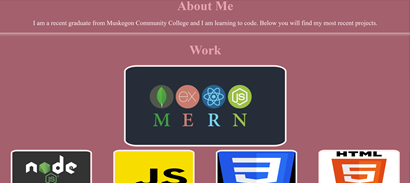
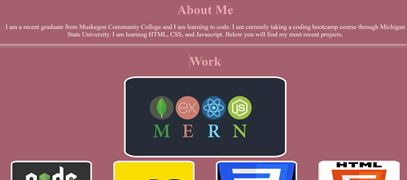
updates

diff --git a/index.html b/index.html
@@ -1,5 +1,6 @@
 <!DOCTYPE html>
 <html lang="en">
+<!--head of webpage-->
 <head>
     <meta charset="UTF-8">
     <title>Chelsea Krum Portolio</title>
@@ -7,14 +8,15 @@
     <link rel="stylesheet" href="./assets/css/style.css" />
 
 </head>
-
+<!--body of webpage-->
 <body>
+<!--header-->
     <header class="header">
         <h1>Chelsea Krum's <span class="portfolio">Portfolio</span></h1>
 
         <hr class="style">
-
-        <div>
+<!--Navigation bar-->
+        <nav>
             <ul>
                 <li>
                     <a href="#aboutMe">About</a>
@@ -25,81 +27,80 @@
                 <li>
                     <a href="#contact">Contact</a>
                 </li>
-        </ul>
-        </div>
+            </ul>
+        </nav>
     </header>     
-    <br>
 
+    <br>
+<!--Picture of me-->
     <img src="./assets/images/seniorpic.jpg" alt="Picture of me" class="profilePic"/>
     </article>
 
     <br>
-
+<!--About me section-->
     <article id="aboutMe" class="aboutMe">
         <h2>About Me</h2>
         <br>
-        <p>I am a recent graduate from Muskegon Community College and I am learning to code. Below you will find my most recent projects.</p>
+        <p>I am a recent graduate from Muskegon Community College and I am learning to code. I am currently taking a coding bootcamp course through Michigan State University. I am learning HTML, CSS, and Javascript. Below you will find my most recent projects.</p>
     </article>
     
     <br>
     <hr class="style">
     <br>
-
+<!--work section-->
     <article id="work" class="work">
         <h3>Work</h3>
         <br>
-        <div class="clearfix">
-            <div class="container"> <a href="https://github.com/ckrum21" target="_blank">
-                <div class="mern"> 
+<!--MERN section-->
+        <section class="clearfix">
+            <section class="container"> <a href="https://github.com/ckrum21" target="_blank">
+                <section class="mern"> 
                 <img src="./assets/images/MERN.jpg" alt="MERN logo">
-                </div>
-                <div class="middle">
-                    <div class="text">MERN Project</div>
-                </div>
+                </section>
+                <section class="middle">
+                    <section class="text">MERN Project</section>
+                </section>
             </a>
-            </div>
-
-
-            <div class="container1"> <a href="https://github.com/ckrum21" target="_blank">
+            </section>
+<!--Node section-->
+            <section class="container1"> <a href="https://github.com/ckrum21" target="_blank">
                 <img src="./assets/images/node.jpg" alt="Node Logo">
-                    <div class="middle">
-                        <div class="text">Node Project</div>
-                    </div>
+                    <section class="middle">
+                        <section class="text">Node Project</section>
+                    </section>
                 </a>
-            </div>
-
-            <div class="container1"><a href="https://github.com/ckrum21" target="_blank"> 
+            </section>
+<!--Javascript section-->
+            <section class="container1"><a href="https://github.com/ckrum21" target="_blank"> 
                 <img src="./assets/images/javascript.jpg" alt="Javascript logo">
-                    <div class="middle">
-                        <div class="text">Javascript Project</div>
-                    </div>
+                    <section class="middle">
+                        <section class="text">Javascript Project</section>
+                    </section>
                 </a>
-            </div>
-
-            <div class="container1" > <a href="https://github.com/ckrum21" target="_blank" > 
+            </section>
+<!--CSS section-->
+            <section class="container1" > <a href="https://github.com/ckrum21" target="_blank" > 
                 <img src="./assets/images/css.jpg" alt="CSS Logo">
-                    <div class="middle">
-                        <div class="text">CSS Project</div>
-                    </div>
+                    <section class="middle">
+                        <section class="text">CSS Project</section>
+                    </section>
                 </a>
-            </div>
-
-            <div class="container1" ><a href="https://github.com/ckrum21" target="_blank" >
+            </section>
+<!--HTML section-->
+            <section class="container1" ><a href="https://github.com/ckrum21" target="_blank" >
                 <img src="./assets/images/html.jpg" alt="HTML Logo">
-                    <div class="middle">
-                        <div class="text">HTML Project</div>
-                    </div>
+                    <section class="middle">
+                        <section class="text">HTML Project</section>
+                    </section>
                 </a>    
-          </div>
-        
-    </div>
-
+          </section>
+        </section>
     </article>
 
     <br>
     <hr class="style">
     <br>
-
+<!--Contact section-->
     <article id="contact" class="contact">
         <h4>Contact</h4>
         <br>
@@ -114,7 +115,7 @@
         </div>
     </article>
 
-
+<!--Footer of Webpage-->
 </body>
 <footer class="footer">
     <br>

diff --git a/assets/css/style.css b/assets/css/style.css
@@ -1,9 +1,10 @@
+/*root section*/
 :root {
     --dark:rgb(167, 98, 110);
     --light:rgb(231 ,163, 174);
     --lightest: rgb(255, 235, 235);
 }
-
+/*Univeral selector*/
 * {
     box-sizing: border-box;
     width:auto;
@@ -11,12 +12,12 @@
     margin: 0;
 
 }
-
+/*body element*/
 body {
     background-color: var(--dark);
     margin: 0;
 }
-
+/*header elements*/
 .header {
     padding: 20px;
     background-color: var(--light);
@@ -32,30 +33,31 @@ body {
 }
 
 
-.header div ul{
+.header nav ul{
     list-style-type: none;
     display: flex;
     justify-content: center;
 }
 
-.header div ul li {
+.header nav ul li {
     display: inline-block;
     margin-left: 25px;
     
 }
+/*Navagation links section*/
  a{
     color:var(--lightest) ;
     text-decoration: underline;
     font-size: 30px;
     
  }
-
+/*horizontal line elements*/
  .style{
     height: 12px;
     border: 0;
     box-shadow: inset 0 12px 12px -12px rgba(253, 253, 253, 0.945);
  }
-
+/*Main picture elements*/
  .profilePic {
     height: 367.5px ;
     width: 497px;
@@ -65,7 +67,7 @@ body {
     border: 5px solid var(--lightest);
     border-radius: 8%;
  }
-
+/*About Me elements*/
  .aboutMe h2{
     font-size: 40px;
     display: flex;
@@ -78,7 +80,7 @@ body {
     text-align: center;
     font-size: 20px;
  }
-
+/*Work elements*/
  .work h3{
     font-size: 40px;
     display: flex;
@@ -98,7 +100,7 @@ body {
     transition: .5 ease;
     backface-visibility: hidden;
  }
-
+/*Mern picture elements*/
  .mern img{
     height: 250px;
     width: 500px;
@@ -116,7 +118,7 @@ body {
     clear: both;
     display: table;
 }
-
+/*container elements*/
  .container {
     float: center;
     width: 100%;
@@ -127,6 +129,8 @@ body {
     margin-right: auto;
     position: relative;
  }
+
+ /*hover elements*/
  .middle {
     transition: .5s ease;
     opacity: 0;
@@ -152,7 +156,7 @@ body {
     font-size: 16px;
     padding: 20px 35px;
  }
-
+/*container 1 elements*/
  .container1 {
     float: left;
     width: 25%;
@@ -169,7 +173,7 @@ body {
  .container1:hover .middle{
     opacity: 1;
  }
- 
+ /*contact section*/
 .contact h4{
     font-size: 40px;
     display: flex;
@@ -189,14 +193,14 @@ body {
     display: inline-block;
     margin-left: 25px;
  }
-
+/*footer elements*/
  .footer {
     padding: 20px;
     background-color: var(--light);
     color: var(--dark);
 }
 
-
+/*Media Query Section*/
 
  @media screen and (max-width: 992px) {
     .container1 {

diff --git a/README.md b/README.md
@@ -4,7 +4,8 @@
 My professional portfolio is a website in which I can showcase my work to employers. In this website, an employer can view a photo of me, a discription of me, my works, and my contact information. When a user clicks on the links below the header, the UI scrolls to the corresponding section in the webpage. When the user clicks on the photos of my projects, it takes the user to that project.
 
 ## Installation 
-link to website: 
+link to website: https://ckrum21.github.io/Professional-Portfolio/ 
+link to GitHub: https://github.com/ckrum21 
 
 Install this website by cloning the code to your local devices.
 
